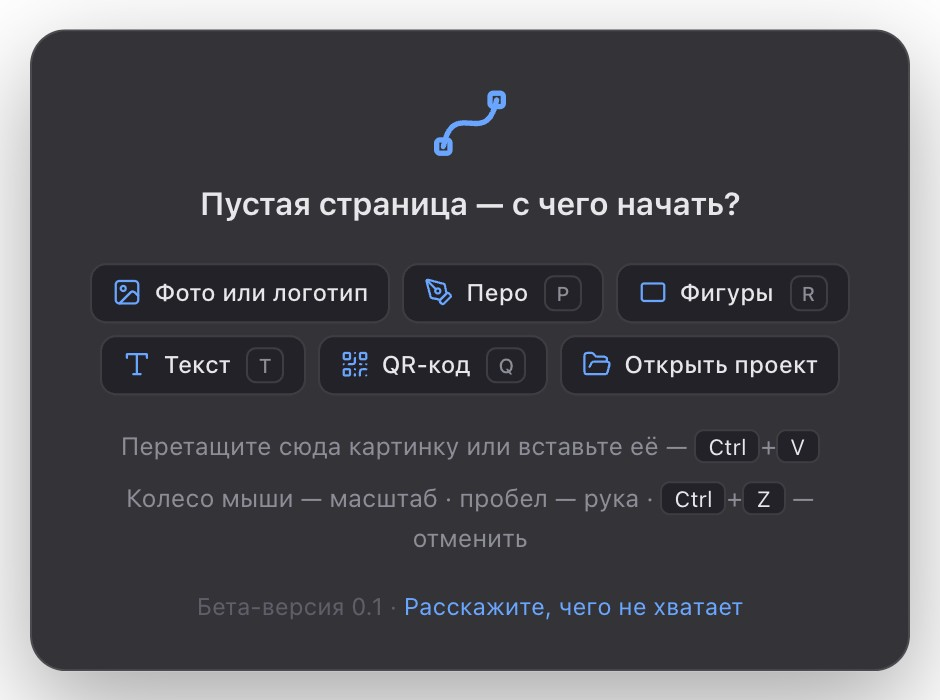
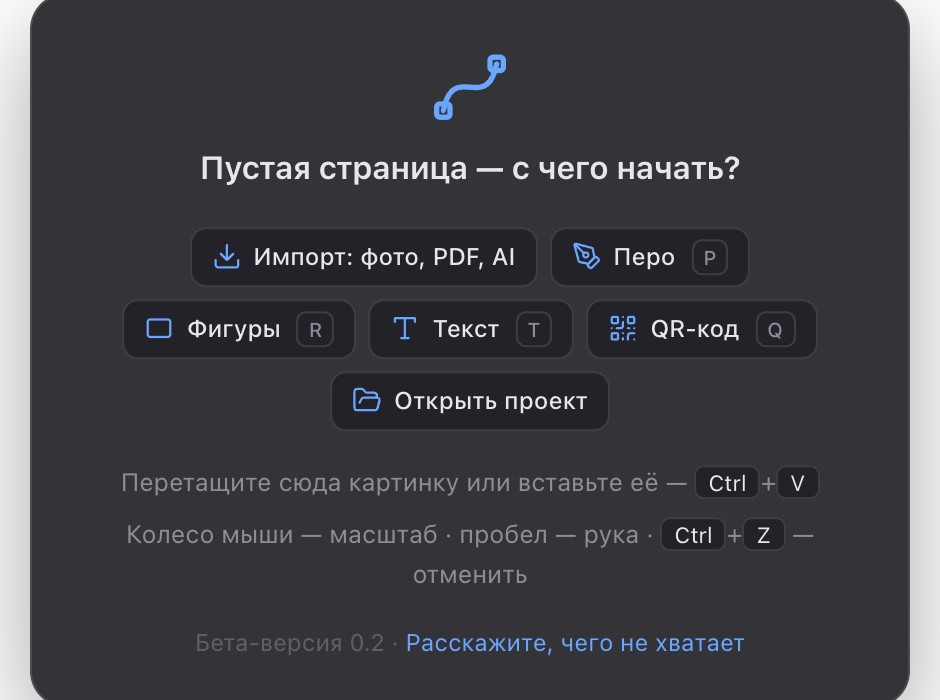
Сайт: Контур 0.2 — программа для Mac и Windows, импорт .ai и PDF
Кнопка «Скачать» выбирает установщик под систему посетителя (Mac Apple/Intel,
Windows), рядом — остальные варианты и браузерная версия. Новые разделы
«Настоящая программа» и «.ai и PDF — сразу кривыми», вопросы «Как открыть
в первый раз», «Какую версию выбрать», «А файлы CorelDRAW?», «Как обновиться».
Скриншоты пересняты с новыми значками «Импорт» и «Экспорт».

diff --git a/kontur/index.html b/kontur/index.html
@@ -3,14 +3,14 @@
 <head>
 <meta charset="utf-8">
 <meta name="viewport" content="width=device-width, initial-scale=1">
-<title>Контур — векторный редактор для печати, резки и QR-кодов прямо в браузере</title>
-<meta name="description" content="Бесплатный векторный редактор: перо и кривые Безье, фигуры, текст с переводом в кривые, сложить и вычесть, выравнивание, привязка, векторные QR-коды. Экспорт SVG, PDF, EPS, DXF и PNG. Один файл, работает в браузере — без установки и регистрации.">
+<title>Контур — векторный редактор для Mac и Windows: печать, резка, вывески и QR-коды</title>
+<meta name="description" content="Бесплатный векторный редактор: перо и кривые Безье, фигуры, текст с переводом в кривые, сложить и вычесть, выравнивание, привязка, векторные QR-коды. Открывает файлы Illustrator и PDF кривыми. Экспорт SVG, PDF, EPS, DXF и PNG. Программа для Mac и Windows, есть браузерная версия. Бесплатно, без регистрации.">
 <meta name="theme-color" content="#000000">
 <meta property="og:type" content="website">
 <meta property="og:title" content="Контур — векторный редактор для печати и резки">
-<meta property="og:description" content="Перо, фигуры, текст в кривые, векторные QR-коды. Экспорт SVG, PDF, EPS, DXF, PNG. Один файл, работает в браузере. Бесплатно.">
-<meta property="og:image" content="../assets/kontur/hero.jpg?v=1">
-<link rel="icon" href="../assets/kontur/icon.svg?v=1" type="image/svg+xml">
+<meta property="og:description" content="Перо, фигуры, текст в кривые, векторные QR-коды. Экспорт SVG, PDF, EPS, DXF, PNG. Программа для Mac и Windows. Бесплатно.">
+<meta property="og:image" content="../assets/kontur/hero.jpg?v=2">
+<link rel="icon" href="../assets/kontur/icon.svg?v=2" type="image/svg+xml">
 <link rel="preconnect" href="https://fonts.googleapis.com">
 <link rel="preconnect" href="https://fonts.gstatic.com" crossorigin>
 <link rel="stylesheet" href="https://fonts.googleapis.com/css2?family=Inter:wght@400;500;600;700;800&family=Unbounded:wght@700&family=Lobster&family=Caveat:wght@700&family=Russo+One&family=Great+Vibes&family=Playfair+Display:ital,wght@1,700&display=swap">
@@ -22,13 +22,13 @@
 <!-- ========== навигация ========== -->
 <nav class="nav" id="nav">
   <div class="nav-in">
-    <a class="brand" href="#top"><img class="klogo" src="../assets/kontur/icon.svg?v=1" alt=""><span class="bn">Контур</span><span class="beta">Бета</span></a>
+    <a class="brand" href="#top"><img class="klogo" src="../assets/kontur/icon.svg?v=2" alt=""><span class="bn">Контур</span><span class="beta">Бета</span></a>
     <div class="links">
-      <a href="#text">Текст</a><a href="#pen">Перо</a><a href="#bool">Фигуры</a><a href="#qr">QR-коды</a><a href="#export">Экспорт</a><a href="#together">Участвовать</a><a href="#faq">Вопросы</a>
+      <a href="#get">Программа</a><a href="#text">Текст</a><a href="#pen">Перо</a><a href="#qr">QR-коды</a><a href="#import">Импорт</a><a href="#export">Экспорт</a><a href="#faq">Вопросы</a>
     </div>
     <div class="nav-r">
       <div class="fam" aria-label="Программы"><a href="../">Фотомагазин</a><a class="on" href="./" aria-current="page">Контур</a></div>
-      <a class="btn btn-sm" href="https://github.com/fotomagazin/kontur/releases/latest/download/kontur.zip">Скачать</a>
+      <a class="btn btn-sm" data-dl="main" data-short href="https://github.com/fotomagazin/kontur/releases/latest/download/Kontur-mac-apple.dmg">Скачать</a>
     </div>
   </div>
 </nav>
@@ -36,22 +36,23 @@
 <!-- ========== первый экран ========== -->
 <header class="hero" id="top">
   <div class="wrap hero-text">
-    <img class="klogo hero-logo reveal" src="../assets/kontur/icon.svg?v=1" width="72" height="72" alt="Логотип Контура">
-    <a class="pill reveal" href="../" style="--d:.04s"><span class="dot"></span>От&nbsp;создателей Фотомагазина<span class="arr">›</span></a>
+    <img class="klogo hero-logo reveal" src="../assets/kontur/icon.svg?v=2" width="72" height="72" alt="Логотип Контура">
+    <a class="pill reveal" href="#get" style="--d:.04s"><span class="dot"></span>Новое в&nbsp;0.2: программы для&nbsp;Mac и&nbsp;Windows, импорт .ai и&nbsp;PDF<span class="arr">›</span></a>
     <h1 class="reveal" style="--d:.08s"><span class="grad">Контур.</span></h1>
-    <p class="lead reveal" style="--d:.16s">Векторный редактор для&nbsp;печати, резки, вывесок и&nbsp;QR-кодов.<br><span>Один файл. Работает в&nbsp;браузере. Бесплатно.</span></p>
+    <p class="lead reveal" style="--d:.16s">Векторный редактор для&nbsp;печати, резки, вывесок и&nbsp;QR-кодов.<br><span>Программа для&nbsp;Mac и&nbsp;Windows. Бесплатно.</span></p>
     <div class="cta reveal" style="--d:.24s">
-      <a class="btn btn-lg" href="https://github.com/fotomagazin/kontur/releases/latest/download/kontur.zip">
-        <svg viewBox="0 0 24 24"><path d="M21 15v4a2 2 0 0 1-2 2H5a2 2 0 0 1-2-2v-4M7 10l5 5 5-5M12 15V3"/></svg>Скачать бесплатно</a>
+      <a class="btn btn-lg" data-dl="main" href="https://github.com/fotomagazin/kontur/releases/latest/download/Kontur-mac-apple.dmg">
+        <svg viewBox="0 0 24 24"><path d="M21 15v4a2 2 0 0 1-2 2H5a2 2 0 0 1-2-2v-4M7 10l5 5 5-5M12 15V3"/></svg><span class="dl-l">Скачать для&nbsp;Mac</span></a>
     </div>
+    <p class="dl-alt reveal" style="--d:.27s" data-dl-alt>Другие варианты: <a href="https://github.com/fotomagazin/kontur/releases/latest/download/Kontur-mac-intel.dmg">Mac с&nbsp;Intel</a> · <a href="https://github.com/fotomagazin/kontur/releases/latest/download/Kontur-windows-setup.exe">Windows</a> · <a href="https://github.com/fotomagazin/kontur/releases/latest/download/kontur.zip">Браузерная версия</a></p>
     <p class="dl-count" hidden><svg viewBox="0 0 24 24"><path d="M21 15v4a2 2 0 0 1-2 2H5a2 2 0 0 1-2-2v-4M7 10l5 5 5-5M12 15V3"/></svg><b>0</b>&nbsp;<span>скачиваний</span></p>
-    <p class="fine reveal" style="--d:.3s">Бета-версия <span data-ver>0.1</span> · Mac и Windows · Без установки · Без регистрации</p>
+    <p class="fine reveal" style="--d:.3s">Бета-версия <span data-ver>0.2</span> · Mac и Windows · Работает без&nbsp;интернета · Без регистрации</p>
   </div>
   <div class="hero-stage">
     <div class="glow" aria-hidden="true"></div>
     <div class="window" id="heroWin">
       <div class="bar"><i></i><i></i><i></i><span>Кофейня.kontur — Контур</span></div>
-      <img src="../assets/kontur/hero.jpg?v=1" width="2880" height="1800" alt="Окно Контура: вывеска кофейни — чашка, пар, надпись «КОФЕЙНЯ», QR-код и направляющие">
+      <img src="../assets/kontur/hero.jpg?v=2" width="2880" height="1800" alt="Окно Контура: вывеска кофейни — чашка, пар, надпись «КОФЕЙНЯ», QR-код и направляющие">
     </div>
   </div>
 </header>
@@ -68,6 +69,36 @@
   <div class="stat reveal" style="--d:.24s"><b data-count="0" data-suffix=" ₽">0 ₽</b><span>стоит программа.<br>Навсегда.</span></div>
 </section>
 
+<!-- ========== программа для Mac и Windows (новое в 0.2) ========== -->
+<section class="feature center" id="get">
+  <div class="wrap">
+    <p class="eyebrow reveal">Новое в&nbsp;0.2 · Программа для&nbsp;Mac и&nbsp;Windows</p>
+    <h2 class="reveal" style="--d:.05s">Настоящая программа.<br>Своё окно, свои файлы.</h2>
+    <p class="body narrow reveal" style="--d:.1s">Контур ставится, как обычная программа: свой значок и&nbsp;меню, проекты .kontur открываются двойным щелчком, «Сохранить» записывает прямо в&nbsp;файл. Шестнадцать шрифтов и&nbsp;все модули уже внутри — поэтому Контур работает без&nbsp;интернета.</p>
+    <div class="platforms">
+      <div class="plat reveal" data-os="mac"><svg viewBox="0 0 24 24"><rect x="3" y="4" width="18" height="12" rx="2"/><path d="M2 20h20"/></svg>
+        <h3>Mac</h3><p>macOS, процессоры Apple (M1–M4) и&nbsp;Intel. Перетащите Контур в&nbsp;«Программы».</p>
+        <div class="plat-b"><a class="btn" href="https://github.com/fotomagazin/kontur/releases/latest/download/Kontur-mac-apple.dmg"><svg viewBox="0 0 24 24"><path d="M21 15v4a2 2 0 0 1-2 2H5a2 2 0 0 1-2-2v-4M7 10l5 5 5-5M12 15V3"/></svg>Mac — Apple M1–M4</a><a class="btn ghost" href="https://github.com/fotomagazin/kontur/releases/latest/download/Kontur-mac-intel.dmg">Mac с&nbsp;Intel</a></div>
+        <span class="plat-s">≈&nbsp;125&nbsp;МБ · файл .dmg</span></div>
+      <div class="plat reveal" style="--d:.08s" data-os="win"><svg viewBox="0 0 24 24"><rect x="2" y="3" width="20" height="14" rx="2"/><path d="M8 21h8M12 17v4"/></svg>
+        <h3>Windows</h3><p>Windows 10 и&nbsp;11 (64&nbsp;бит). Установка в&nbsp;один щелчок, ярлык на&nbsp;рабочем столе.</p>
+        <div class="plat-b"><a class="btn" href="https://github.com/fotomagazin/kontur/releases/latest/download/Kontur-windows-setup.exe"><svg viewBox="0 0 24 24"><path d="M21 15v4a2 2 0 0 1-2 2H5a2 2 0 0 1-2-2v-4M7 10l5 5 5-5M12 15V3"/></svg>Скачать для&nbsp;Windows</a></div>
+        <span class="plat-s">≈&nbsp;115&nbsp;МБ · файл .exe</span></div>
+      <div class="plat reveal" style="--d:.16s" data-os="web"><svg viewBox="0 0 24 24"><circle cx="12" cy="12" r="10"/><path d="M2 12h20M12 2a15.3 15.3 0 0 1 4 10 15.3 15.3 0 0 1-4 10 15.3 15.3 0 0 1-4-10 15.3 15.3 0 0 1 4-10z"/></svg>
+        <h3>Браузерная версия</h3><p>Любой компьютер, в&nbsp;том числе Linux. Тот же Контур в&nbsp;одном файле kontur.html — лучше в&nbsp;Chrome или&nbsp;Edge.</p>
+        <div class="plat-b"><a class="btn ghost" href="https://github.com/fotomagazin/kontur/releases/latest/download/kontur.zip"><svg viewBox="0 0 24 24"><path d="M21 15v4a2 2 0 0 1-2 2H5a2 2 0 0 1-2-2v-4M7 10l5 5 5-5M12 15V3"/></svg>Скачать архив</a></div>
+        <span class="plat-s">меньше 100&nbsp;КБ · файл .zip</span></div>
+    </div>
+    <ul class="checks two reveal">
+      <li>Проекты .kontur — двойным щелчком в&nbsp;Finder и&nbsp;Проводнике</li>
+      <li>«Сохранить» прямо в&nbsp;файл, ⌘S или&nbsp;Ctrl+S</li>
+      <li>Без интернета: шрифты, «Сложить / Вычесть» и&nbsp;импорт PDF внутри</li>
+      <li>Сама подскажет, когда выйдет новая версия</li>
+    </ul>
+    <p class="hint reveal">Программы пока без&nbsp;платной подписи Apple и&nbsp;Microsoft — в&nbsp;первый раз система переспросит. <a class="inl" href="#first">Как открыть в&nbsp;первый раз</a></p>
+  </div>
+</section>
+
 <!-- ========== текст ========== -->
 <section class="feature center" id="text">
   <div class="wrap">
@@ -76,7 +107,7 @@
     <p class="body narrow reveal" style="--d:.1s">Кликните по&nbsp;странице и&nbsp;печатайте. Шестнадцать шрифтов с&nbsp;кириллицей — от&nbsp;строгого Montserrat до&nbsp;рукописного Great Vibes, а&nbsp;можно загрузить свой. Готово — нажмите «В&nbsp;кривые», и&nbsp;буквы станут контурами для&nbsp;плоттера, лазера или&nbsp;типографии.</p>
     <div class="window wide-shot reveal" style="--d:.15s">
       <div class="bar"><i></i><i></i><i></i><span>Афиша.kontur — Контур</span></div>
-      <img src="../assets/kontur/text.jpg?v=1" width="2880" height="1800" alt="Афиша с надписями разными шрифтами; справа — раздел «Текст»: шрифт, размер, начертание, интервалы и кнопка «В кривые»" loading="lazy">
+      <img src="../assets/kontur/text.jpg?v=2" width="2880" height="1800" alt="Афиша с надписями разными шрифтами; справа — раздел «Текст»: шрифт, размер, начертание, интервалы и кнопка «В кривые»" loading="lazy">
     </div>
     <div class="fonts kt-fonts reveal"><span style="font-family:Unbounded">Unbounded</span><span style="font-family:'Russo One'">Russo One</span><span class="lg" style="font-family:Lobster">Lobster</span><span class="lg" style="font-family:'Great Vibes'">Great Vibes</span><span class="lg" style="font-family:Caveat">Caveat</span><span style="font-family:'Playfair Display';font-style:italic">Playfair Display</span><span>Montserrat</span><span>Roboto</span><span>PT Sans</span><span>Oswald</span><span>Rubik</span><span>Exo 2</span><span>Comfortaa</span><span>Open Sans</span><span>PT Serif</span><span>Marck Script</span><span class="on">+ свой шрифт</span></div>
     <p class="hint reveal">Размер — в&nbsp;пунктах, как в&nbsp;типографии. Межстрочный и&nbsp;межбуквенный интервал, выравнивание, жирный и&nbsp;курсив.</p>
@@ -98,7 +129,7 @@
       </ul>
     </div>
     <div class="shot-stack reveal" style="--d:.1s">
-      <div class="card zoom"><img src="../assets/kontur/nodes.jpg?v=1" width="2160" height="1556" alt="Сердце из кривых Безье: узлы и рычаги выбранного узла, внизу — волна пером" loading="lazy"></div>
+      <div class="card zoom"><img src="../assets/kontur/nodes.jpg?v=2" width="2160" height="1556" alt="Сердце из кривых Безье: узлы и рычаги выбранного узла, внизу — волна пером" loading="lazy"></div>
       <div class="tag t1"><svg viewBox="0 0 24 24"><path d="M12 19l7-7 3 3-7 7-3-3z"/><path d="m18 13-1.5-7.5L2 2l3.5 14.5L13 18l5-5z"/><path d="m2 2 7.586 7.586"/><circle cx="11" cy="11" r="2"/></svg>Перо — F5, узлы — F10</div>
       <div class="tag t2"><svg viewBox="0 0 24 24"><rect x="3" y="3" width="6" height="6" rx="1"/><rect x="15" y="15" width="6" height="6" rx="1"/><path d="M6 9c0 6 6 9 12 6"/></svg>Клавиши как в&nbsp;CorelDRAW</div>
     </div>
@@ -115,7 +146,7 @@
       <div class="chips reveal" style="--d:.15s"><span>Прямоугольник · F6</span><span>Эллипс · F7</span><span>Многоугольник</span><span class="on">Звезда</span><span>Пипетка</span></div>
     </div>
     <div class="shot-stack reveal" style="--d:.1s">
-      <div class="card zoom"><img src="../assets/kontur/shapes.jpg?v=1" width="2272" height="1728" alt="Прямоугольник, эллипс, шестиугольник и звезда; вверху — число лучей и глубина звезды" loading="lazy"></div>
+      <div class="card zoom"><img src="../assets/kontur/shapes.jpg?v=2" width="2272" height="1728" alt="Прямоугольник, эллипс, шестиугольник и звезда; вверху — число лучей и глубина звезды" loading="lazy"></div>
     </div>
   </div>
 </section>
@@ -143,7 +174,7 @@
     </div>
     <p class="hint reveal">Нажмите на&nbsp;операцию, чтобы посмотреть</p>
     <div class="duo">
-      <figure class="card reveal"><img src="../assets/kontur/bool.jpg?v=1" width="606" height="642" alt="Раздел «Кривая»: заливка, обводка и кнопки «Сложить», «Вычесть», «Пересечь», «Исключить», «Объединить», «Разъединить»" loading="lazy">
+      <figure class="card reveal"><img src="../assets/kontur/bool.jpg?v=2" width="606" height="642" alt="Раздел «Кривая»: заливка, обводка и кнопки «Сложить», «Вычесть», «Пересечь», «Исключить», «Объединить», «Разъединить»" loading="lazy">
         <figcaption><b>Одна кнопка.</b> Выберите две фигуры или&nbsp;больше — и&nbsp;нажмите нужную операцию в&nbsp;разделе «Кривая».</figcaption></figure>
       <figure class="card reveal st-list" style="--d:.1s">
         <ul class="checks">
@@ -186,7 +217,7 @@
     <p class="body narrow reveal" style="--d:.1s">Всё меряется в&nbsp;миллиметрах: страница A5, A4, A3 или&nbsp;свой размер. Тяните направляющие от&nbsp;линеек, включите сетку — а&nbsp;привязка сама прилепит фигуру к&nbsp;направляющей, краю или&nbsp;центру страницы, к&nbsp;соседнему объекту и&nbsp;его узлам. Розовые линии показывают, к&nbsp;чему прилипло.</p>
     <div class="window wide-shot reveal" style="--d:.15s">
       <div class="bar"><i></i><i></i><i></i><span>Кофейня.kontur — Контур</span></div>
-      <img src="../assets/kontur/snap.jpg?v=1" width="2880" height="1800" alt="Чашку перетаскивают мышью: розовые линии привязки к направляющей и центру страницы, сверху и слева — линейки в миллиметрах" loading="lazy">
+      <img src="../assets/kontur/snap.jpg?v=2" width="2880" height="1800" alt="Чашку перетаскивают мышью: розовые линии привязки к направляющей и центру страницы, сверху и слева — линейки в миллиметрах" loading="lazy">
     </div>
     <div class="chips st-chips reveal"><span>Линейки в&nbsp;мм</span><span>Направляющие — тянуть от&nbsp;линейки</span><span>Сетка с&nbsp;любым шагом</span><span class="on">Привязка к&nbsp;узлам и&nbsp;краям</span><span>Стрелки — сдвиг на&nbsp;1&nbsp;мм</span></div>
   </div>
@@ -202,7 +233,7 @@
       <div class="chips reveal" style="--d:.15s"><span>Сайт</span><span class="on">Wi-Fi</span><span>Визитка</span><span>Telegram</span><span>WhatsApp</span><span>Телефон</span><span>SMS</span><span>E-mail</span><span>Текст</span><span>Геолокация</span><span>Событие в&nbsp;календарь</span></div>
     </div>
     <div class="shot-stack reveal" style="--d:.1s">
-      <div class="card zoom"><img src="../assets/kontur/qr.jpg?v=1" width="1376" height="1000" alt="Окно «QR-код»: подключение к Wi-Fi, имя сети и пароль, размер в миллиметрах, коррекция ошибок, цвета и предпросмотр" loading="lazy"></div>
+      <div class="card zoom"><img src="../assets/kontur/qr.jpg?v=2" width="1376" height="1000" alt="Окно «QR-код»: подключение к Wi-Fi, имя сети и пароль, размер в миллиметрах, коррекция ошибок, цвета и предпросмотр" loading="lazy"></div>
       <div class="tag t1"><svg viewBox="0 0 24 24"><rect x="3" y="3" width="7" height="7" rx="1"/><rect x="14" y="3" width="7" height="7" rx="1"/><rect x="3" y="14" width="7" height="7" rx="1"/><path d="M14 14h3v3h-3zM20 14v.01M14 20h.01M17 17h3v3h-3z"/></svg>Вектор, а&nbsp;не&nbsp;картинка</div>
       <div class="tag t2"><svg viewBox="0 0 24 24"><path d="M12 20h.01M2 8.82a15 15 0 0 1 20 0M5 12.86a10 10 0 0 1 14 0M8.5 16.43a5 5 0 0 1 7 0"/></svg>Гости подключатся к&nbsp;Wi-Fi</div>
     </div>
@@ -223,8 +254,30 @@
       </ul>
     </div>
     <div class="shot-stack reveal" style="--d:.1s">
-      <div class="card zoom"><img src="../assets/kontur/trace.jpg?v=1" width="2160" height="1556" alt="Фото гор закреплено и сделано полупрозрачным, поверх — розовый контур вершины с узлами" loading="lazy"></div>
+      <div class="card zoom"><img src="../assets/kontur/trace.jpg?v=2" width="2160" height="1556" alt="Фото гор закреплено и сделано полупрозрачным, поверх — розовый контур вершины с узлами" loading="lazy"></div>
       <div class="tag t2"><svg viewBox="0 0 24 24"><rect x="3" y="11" width="18" height="11" rx="2"/><path d="M7 11V7a5 5 0 0 1 10 0v4"/></svg>Фото закреплено — не&nbsp;сдвинется</div>
+    </div>
+  </div>
+</section>
+
+<!-- ========== импорт .ai и PDF (новое в 0.2) ========== -->
+<section class="feature" id="import">
+  <div class="wrap grid2 rev">
+    <div class="copy">
+      <p class="eyebrow reveal">Новое в&nbsp;0.2 · Импорт</p>
+      <h2 class="reveal" style="--d:.05s">.ai и&nbsp;PDF —<br>сразу кривыми.</h2>
+      <p class="body reveal" style="--d:.1s">Откройте .ai или&nbsp;PDF — и&nbsp;каждый контур станет обычной кривой Контура: двигайте узлы, перекрашивайте, готовьте к&nbsp;резке. Текст приходит буквами-кривыми, так что нужный шрифт на&nbsp;компьютере не&nbsp;нужен.</p>
+      <ul class="checks reveal" style="--d:.15s">
+        <li>Контуры, цвета, обводки и&nbsp;прозрачность</li>
+        <li>Текст — кривыми букв, как в&nbsp;исходном файле</li>
+        <li>Фото внутри файла пропускаются, градиенты — средним цветом</li>
+      </ul>
+      <p class="note reveal" style="--d:.2s"><b>А&nbsp;CorelDRAW?</b> Формат .cdr закрытый, напрямую его не&nbsp;открыть. В&nbsp;CorelDRAW: «Файл → Экспорт… → PDF» — и&nbsp;откройте PDF в&nbsp;Контуре. Без CorelDRAW поможет бесплатный Inkscape.</p>
+    </div>
+    <div class="shot-stack reveal" style="--d:.1s">
+      <div class="card zoom"><img src="../assets/kontur/import.jpg?v=2" width="2880" height="1800" alt="Вывеска, открытая из PDF: 11 объектов, все — кривые Контура" loading="lazy"></div>
+      <div class="tag t1"><svg viewBox="0 0 24 24"><path d="M15 2H6a2 2 0 0 0-2 2v16a2 2 0 0 0 2 2h12a2 2 0 0 0 2-2V7Z"/><path d="M14 2v4a2 2 0 0 0 2 2h4"/></svg>.ai и&nbsp;.pdf</div>
+      <div class="tag t2"><svg viewBox="0 0 24 24"><rect x="3" y="3" width="6" height="6" rx="1"/><rect x="15" y="15" width="6" height="6" rx="1"/><path d="M6 9c0 6 6 9 12 6"/></svg>11 объектов — все кривые</div>
     </div>
   </div>
 </section>
@@ -245,7 +298,7 @@
       </dl>
     </div>
     <div class="shot-stack reveal" style="--d:.1s">
-      <div class="card zoom"><img src="../assets/kontur/export.jpg?v=1" width="1060" height="800" alt="Окно «Экспорт»: форматы SVG, PDF, EPS, DXF, PNG, размер 200 × 130 мм и вес файла" loading="lazy"></div>
+      <div class="card zoom"><img src="../assets/kontur/export.jpg?v=2" width="1060" height="800" alt="Окно «Экспорт»: форматы SVG, PDF, EPS, DXF, PNG, размер 200 × 130 мм и вес файла" loading="lazy"></div>
       <div class="tag t1"><svg viewBox="0 0 24 24"><path d="M21 15v4a2 2 0 0 1-2 2H5a2 2 0 0 1-2-2v-4M7 10l5 5 5-5M12 15V3"/></svg>Вес файла — заранее</div>
     </div>
   </div>
@@ -257,8 +310,8 @@
     <h2 class="reveal center-t">И это ещё не&nbsp;всё.</h2>
     <div class="bento">
       <div class="b-card wide with-shot reveal"><div><svg viewBox="0 0 24 24"><path d="M15 2H6a2 2 0 0 0-2 2v16a2 2 0 0 0 2 2h12a2 2 0 0 0 2-2V7Z"/><path d="M14 2v4a2 2 0 0 0 2 2h4"/><circle cx="10" cy="12" r="2"/><path d="m20 17-1.3-1.3a2 2 0 0 0-2.8 0L10 22"/></svg>
-        <h3>Подскажет, с&nbsp;чего начать.</h3><p>На&nbsp;пустой странице — кнопки «Фото или&nbsp;логотип», «Перо», «Фигуры», «Текст», «QR-код» и&nbsp;главные клавиши. Картинку можно просто перетащить в&nbsp;окно или&nbsp;вставить из&nbsp;буфера.</p></div>
-        <img class="b-shot" src="../assets/kontur/empty.jpg?v=1" width="940" height="700" alt="Подсказка «Пустая страница — с чего начать?»" loading="lazy"></div>
+        <h3>Подскажет, с&nbsp;чего начать.</h3><p>На&nbsp;пустой странице — кнопки «Импорт», «Перо», «Фигуры», «Текст», «QR-код» и&nbsp;главные клавиши. Картинку можно просто перетащить в&nbsp;окно или&nbsp;вставить из&nbsp;буфера.</p></div>
+        <img class="b-shot" src="../assets/kontur/empty.jpg?v=2" width="940" height="700" alt="Подсказка «Пустая страница — с чего начать?»" loading="lazy"></div>
       <div class="b-card reveal" style="--d:.06s"><svg viewBox="0 0 24 24"><path d="M3 12a9 9 0 0 1 9-9 9.75 9.75 0 0 1 6.74 2.74L21 8"/><path d="M21 3v5h-5"/><path d="M21 12a9 9 0 0 1-9 9 9.75 9.75 0 0 1-6.74-2.74L3 16"/><path d="M8 16H3v5"/></svg>
         <h3>Автосохранение.</h3><p>Закрыли вкладку? При&nbsp;следующем запуске Контур предложит вернуть работу.</p></div>
       <div class="b-card reveal"><svg viewBox="0 0 24 24"><path d="M3 12a9 9 0 1 0 9-9 9.75 9.75 0 0 0-6.74 2.74L3 8"/><path d="M3 3v5h5M12 7v5l4 2"/></svg>
@@ -280,7 +333,7 @@
 <section class="together" id="together">
   <div class="wrap">
     <div class="center">
-      <p class="eyebrow reveal">Бета-версия <span data-ver>0.1</span></p>
+      <p class="eyebrow reveal">Бета-версия <span data-ver>0.2</span></p>
       <h2 class="reveal" style="--d:.05s">Контур создаётся<br>вместе с&nbsp;вами.</h2>
       <p class="body narrow reveal" style="--d:.1s">Это ранняя версия: основа уже работает, но&nbsp;многого ещё нет, а&nbsp;что-то может сломаться. Расскажите, чего вам не&nbsp;хватает, — автор читает каждое сообщение. Бот и&nbsp;канал у&nbsp;Контура и&nbsp;Фотомагазина общие.</p>
     </div>
@@ -295,7 +348,8 @@
       <p class="reveal" style="--d:.05s">Идеи, которые уже на&nbsp;очереди. Голосуйте в&nbsp;опросах нашего канала — самые нужные появятся первыми.</p>
       <ul class="road reveal" style="--d:.1s">
         <li class="done">Текст и&nbsp;«В&nbsp;кривые» <em>готово в&nbsp;0.1</em></li><li class="done">Сложить и&nbsp;вычесть <em>готово в&nbsp;0.1</em></li><li class="done">Привязка и&nbsp;направляющие <em>готово в&nbsp;0.1</em></li>
-        <li>Группы</li><li>Открывать SVG и&nbsp;PDF кривыми</li><li>Контур по&nbsp;фото одной кнопкой</li><li>Градиенты</li><li>Пунктир и&nbsp;отступ контура для&nbsp;резки</li>
+        <li class="done">Программа для&nbsp;Mac и&nbsp;Windows <em>готово в&nbsp;0.2</em></li><li class="done">Открывать .ai и&nbsp;PDF кривыми <em>готово в&nbsp;0.2</em></li>
+        <li>Группы</li><li>Открывать SVG кривыми</li><li>Контур по&nbsp;фото одной кнопкой</li><li>Градиенты</li><li>Пунктир и&nbsp;отступ контура для&nbsp;резки</li>
         <li>Метки реза и&nbsp;CMYK</li><li>Несколько страниц</li><li>Английская версия</li><li class="you">+ ваша идея</li>
       </ul>
     </div>
@@ -307,25 +361,26 @@
   <div class="wrap center">
     <div class="lock reveal"><svg viewBox="0 0 24 24"><rect x="3" y="11" width="18" height="11" rx="2"/><path d="M7 11V7a5 5 0 0 1 10 0v4"/></svg></div>
     <h2 class="reveal" style="--d:.05s">Ваши макеты<br>остаются у&nbsp;вас.</h2>
-    <p class="body narrow reveal" style="--d:.1s">Контур работает прямо на&nbsp;вашем компьютере, в&nbsp;браузере. Никаких серверов, облака и&nbsp;аккаунтов — логотипы, фото и&nbsp;макеты никуда не&nbsp;загружаются.</p>
+    <p class="body narrow reveal" style="--d:.1s">Контур работает прямо на&nbsp;вашем компьютере. Никаких серверов, облака и&nbsp;аккаунтов — логотипы, фото и&nbsp;макеты никуда не&nbsp;загружаются.</p>
   </div>
 </section>
 
 <!-- ========== скачать ========== -->
 <section class="download" id="download">
   <div class="wrap center">
-    <img class="klogo big reveal" src="../assets/kontur/icon.svg?v=1" width="96" height="96" alt="">
+    <img class="klogo big reveal" src="../assets/kontur/icon.svg?v=2" width="96" height="96" alt="">
     <h2 class="reveal" style="--d:.05s">Начните прямо сейчас.</h2>
-    <p class="body narrow reveal" style="--d:.1s">Бесплатно. Без регистрации. Архив меньше 100&nbsp;КБ — программа и&nbsp;короткая инструкция.</p>
-    <p class="fine reveal" style="--d:.12s">Бета-версия <span data-ver>0.1</span>. Нашли ошибку или&nbsp;чего-то не&nbsp;хватает? <a class="inl" data-form="idea" href="#together">Напишите нам</a>.</p>
+    <p class="body narrow reveal" style="--d:.1s">Бесплатно. Без регистрации. Программа для&nbsp;Mac и&nbsp;Windows — или&nbsp;браузерная версия в&nbsp;одном файле.</p>
+    <p class="fine reveal" style="--d:.12s">Бета-версия <span data-ver>0.2</span>. Нашли ошибку или&nbsp;чего-то не&nbsp;хватает? <a class="inl" data-form="idea" href="#together">Напишите нам</a>.</p>
     <div class="cta reveal" style="--d:.15s">
-      <a class="btn btn-lg" href="https://github.com/fotomagazin/kontur/releases/latest/download/kontur.zip">
-        <svg viewBox="0 0 24 24"><path d="M21 15v4a2 2 0 0 1-2 2H5a2 2 0 0 1-2-2v-4M7 10l5 5 5-5M12 15V3"/></svg>Скачать Контур</a>
+      <a class="btn btn-lg" data-dl="main" href="https://github.com/fotomagazin/kontur/releases/latest/download/Kontur-mac-apple.dmg">
+        <svg viewBox="0 0 24 24"><path d="M21 15v4a2 2 0 0 1-2 2H5a2 2 0 0 1-2-2v-4M7 10l5 5 5-5M12 15V3"/></svg><span class="dl-l">Скачать для&nbsp;Mac</span></a>
     </div>
+    <p class="dl-alt reveal" data-dl-alt>Другие варианты: <a href="https://github.com/fotomagazin/kontur/releases/latest/download/Kontur-mac-intel.dmg">Mac с&nbsp;Intel</a> · <a href="https://github.com/fotomagazin/kontur/releases/latest/download/Kontur-windows-setup.exe">Windows</a> · <a href="https://github.com/fotomagazin/kontur/releases/latest/download/kontur.zip">Браузерная версия</a></p>
     <p class="dl-count" hidden><svg viewBox="0 0 24 24"><path d="M21 15v4a2 2 0 0 1-2 2H5a2 2 0 0 1-2-2v-4M7 10l5 5 5-5M12 15V3"/></svg><b>0</b>&nbsp;<span>скачиваний</span></p>
     <ol class="steps">
-      <li class="reveal"><b>1</b><h3>Скачайте</h3><p>Архив с&nbsp;программой и&nbsp;инструкцией «Как пользоваться».</p></li>
-      <li class="reveal" style="--d:.08s"><b>2</b><h3>Откройте</h3><p>Распакуйте архив и&nbsp;откройте kontur.html — программа запустится в&nbsp;браузере.</p></li>
+      <li class="reveal"><b>1</b><h3>Скачайте</h3><p>Установщик для&nbsp;вашего компьютера — Mac или&nbsp;Windows.</p></li>
+      <li class="reveal" style="--d:.08s"><b>2</b><h3>Установите</h3><p>Mac: перетащите Контур в&nbsp;«Программы». Windows: установка в&nbsp;один щелчок. <a class="inl" href="#first">Первый запуск</a> — один раз подтвердить.</p></li>
       <li class="reveal" style="--d:.16s"><b>3</b><h3>Рисуйте</h3><p>Перетащите логотип, возьмите перо или&nbsp;вставьте QR-код. Всё остальное уже внутри.</p></li>
     </ol>
   </div>
@@ -336,13 +391,16 @@
   <div class="wrap narrow-w">
     <h2 class="reveal center-t">Вопросы и&nbsp;ответы.</h2>
     <details class="reveal"><summary>Для чего подходит Контур?</summary><p>Для&nbsp;всего, где нужны чистые контуры, а&nbsp;не&nbsp;пиксели: вывески и&nbsp;таблички, наклейки и&nbsp;трафареты, файлы для&nbsp;режущего плоттера, лазера и&nbsp;фрезера, логотипы, визитки и&nbsp;листовки для&nbsp;типографии, QR-коды для&nbsp;меню и&nbsp;упаковки.</p></details>
-    <details class="reveal"><summary>Чем Контур отличается от&nbsp;Фотомагазина?</summary><p>Фотомагазин работает с&nbsp;фотографиями — пикселями и&nbsp;слоями. Контур — с&nbsp;векторами: линиями и&nbsp;кривыми, которые можно увеличить до&nbsp;любого размера без&nbsp;потери качества. Это две отдельные программы, у&nbsp;каждой свой файл, но&nbsp;дизайн, бот и&nbsp;канал у&nbsp;них общие.</p></details>
+    <details class="reveal"><summary>Чем Контур отличается от&nbsp;Фотомагазина?</summary><p>Фотомагазин работает с&nbsp;фотографиями — пикселями и&nbsp;слоями. Контур — с&nbsp;векторами: линиями и&nbsp;кривыми, которые можно увеличить до&nbsp;любого размера без&nbsp;потери качества. Это две отдельные программы со&nbsp;своими версиями, но&nbsp;дизайн, бот и&nbsp;канал у&nbsp;них общие.</p></details>
     <details class="reveal"><summary>Почему «бета»?</summary><p>Контур только начинает свой путь. Всё, что описано на&nbsp;этой странице, уже работает, но&nbsp;программа ещё развивается: будут появляться новые инструменты, а&nbsp;иногда — встречаться ошибки. Ваши отзывы помогают решить, что делать в&nbsp;первую очередь.</p></details>
-    <details class="reveal"><summary>Какие файлы он сохраняет?</summary><p>Проект — в&nbsp;файл .kontur со&nbsp;всем содержимым. Для&nbsp;работы — экспорт в&nbsp;SVG, PDF, EPS, DXF и&nbsp;PNG. Фото попадают в&nbsp;SVG, PDF и&nbsp;PNG; в&nbsp;EPS и&nbsp;DXF уходят только векторы — об&nbsp;этом окно «Экспорт» предупредит.</p></details>
+    <details class="reveal" id="first"><summary>Как открыть в&nbsp;первый раз?</summary><p>Программы пока без&nbsp;платной подписи Apple и&nbsp;Microsoft, поэтому при&nbsp;первом запуске система переспросит — один раз.<br><b>Mac:</b> откройте Контур двойным щелчком → появится «Не удалось проверить…» → нажмите «Готово» → откройте «Системные настройки» → «Конфиденциальность и&nbsp;безопасность» → внизу «Контур заблокирован…» → «Открыть всё равно» и&nbsp;введите пароль Mac.<br><b>Windows:</b> запустите установщик → в&nbsp;синем окне «Windows защитил ваш компьютер» нажмите «Подробнее» → «Выполнить в&nbsp;любом случае».</p></details>
+    <details class="reveal"><summary>Какие файлы он открывает и&nbsp;сохраняет?</summary><p>Открывает свои проекты .kontur, файлы Illustrator (.ai) и&nbsp;PDF — кривыми, а&nbsp;ещё картинки JPG, PNG, WebP, SVG, HEIC и&nbsp;TIFF — их удобно обводить. Сохраняет проект в&nbsp;.kontur, а&nbsp;для&nbsp;работы — экспорт в&nbsp;SVG, PDF, EPS, DXF и&nbsp;PNG. Фото попадают в&nbsp;SVG, PDF и&nbsp;PNG; в&nbsp;EPS и&nbsp;DXF уходят только векторы — об&nbsp;этом окно «Экспорт» предупредит.</p></details>
+    <details class="reveal"><summary>А&nbsp;файлы CorelDRAW (.cdr)?</summary><p>Напрямую — нет: это закрытый формат Corel. В&nbsp;CorelDRAW выберите «Файл → Экспорт…» и&nbsp;сохраните в&nbsp;PDF (текст лучше заранее перевести в&nbsp;кривые — Ctrl+Q), затем откройте PDF в&nbsp;Контуре. Если CorelDRAW нет, файл .cdr откроет бесплатный Inkscape — сохраните из&nbsp;него PDF.</p></details>
     <details class="reveal"><summary>Это правда бесплатно?</summary><p>Да. Без пробного периода, подписок и&nbsp;рекламы.</p></details>
-    <details class="reveal"><summary>Нужно что-то устанавливать?</summary><p>Нет. Скачайте архив, распакуйте его двойным кликом и&nbsp;откройте kontur.html — программа запустится в&nbsp;браузере. Вся программа — это один этот файл, а&nbsp;рядом лежит короткая инструкция.</p></details>
-    <details class="reveal"><summary>Работает без интернета?</summary><p>Почти всё — да. Интернет нужен, чтобы при&nbsp;первом использовании скачать шрифты для&nbsp;текста, модуль для&nbsp;«Сложить / Вычесть» и&nbsp;открыть TIFF или&nbsp;HEIC.</p></details>
-    <details class="reveal"><summary>В каком браузере лучше?</summary><p>Лучше всего — в&nbsp;Google Chrome или&nbsp;Microsoft Edge на&nbsp;Mac и&nbsp;Windows: там работают настоящие «Сохранить» и&nbsp;«Сохранить как».</p></details>
+    <details class="reveal"><summary>Какую версию выбрать?</summary><p>Для&nbsp;Mac и&nbsp;Windows — программу: своё окно, работа без&nbsp;интернета, «Сохранить» прямо в&nbsp;файл. Браузерная версия — тот же Контур в&nbsp;одном файле kontur.html: ничего не&nbsp;устанавливается, подойдёт для&nbsp;любого компьютера, в&nbsp;том числе с&nbsp;Linux. Распакуйте архив и&nbsp;откройте kontur.html двойным щелчком.</p></details>
+    <details class="reveal"><summary>Работает без интернета?</summary><p>Программа для&nbsp;Mac и&nbsp;Windows — полностью: шрифты и&nbsp;модули уже внутри. Браузерной версии интернет нужен один раз — чтобы скачать шрифты, модуль для&nbsp;«Сложить / Вычесть», импорт PDF и&nbsp;открыть TIFF или&nbsp;HEIC.</p></details>
+    <details class="reveal"><summary>Как обновиться?</summary><p>Кнопка «Версия» в&nbsp;верхней панели сама подскажет, что вышла новая версия, и&nbsp;скачает установщик для&nbsp;вашей системы. Запустите его — Контур обновится, а&nbsp;проекты и&nbsp;автосохранение останутся.</p></details>
+    <details class="reveal"><summary>В каком браузере лучше браузерная версия?</summary><p>В&nbsp;Google Chrome или&nbsp;Microsoft Edge: там работают настоящие «Сохранить» и&nbsp;«Сохранить как».</p></details>
     <details class="reveal"><summary>Как предложить идею или&nbsp;сообщить об&nbsp;ошибке?</summary><p>Через <a class="inl" data-form="idea" href="#together">короткую форму</a> или нашего <a class="inl" data-tg="bot" href="#together">Telegram-бота</a> — сообщение придёт напрямую автору. Или прямо из&nbsp;программы: кнопка «Обратная связь» в&nbsp;верхней панели. Новости — в&nbsp;<a class="inl" data-tg="channel" href="#together">Telegram-канале</a>.</p></details>
   </div>
 </section>
@@ -366,7 +424,7 @@
 
 <footer class="foot">
   <div class="wrap foot-in">
-    <a class="brand" href="#top"><img class="klogo" src="../assets/kontur/icon.svg?v=1" alt="">Контур <span>· Contour</span></a>
+    <a class="brand" href="#top"><img class="klogo" src="../assets/kontur/icon.svg?v=2" alt="">Контур <span>· Contour</span></a>
     <p><a class="inl" href="../">Фотомагазин</a> · <a class="inl" data-tg="channel" href="#together">Канал в&nbsp;Telegram</a> · <a class="inl" data-tg="bot" href="#together">Написать автору</a> · © <span id="year">2026</span> Контур. Сделано для&nbsp;тех, кто печатает, режет и&nbsp;рисует.</p>
   </div>
 </footer>

diff --git a/kontur/kontur.js b/kontur/kontur.js
@@ -16,3 +16,39 @@ function showAl(i) { for (let k = 0; k < 4; k++) alDemo.classList.toggle('st' + 
 showAl(0);
 alBtns.forEach((b, i) => b.addEventListener('click', () => { alAuto = false; showAl(i); }));
 if (!reduce) whileVisible(alDemo, async alive => { for (let i = 1; alive() && alAuto; i++) { await wait(2200); if (alive() && alAuto) showAl(i % 4); } });
+
+// ---------- скачивание: установщик под систему посетителя ----------
+// Mac: процессор узнаём по видеокарте (Chrome называет «Apple M1…» или «Intel…»; Safari всегда говорит «Apple GPU» — тогда Apple,
+// а рядом всегда есть ссылка «Mac с Intel»). Телефоны, планшеты, Linux — кнопка ведёт к выбору версии.
+const DL = 'https://github.com/fotomagazin/kontur/releases/latest/download/';
+const DLS = {
+  apple: { f: 'Kontur-mac-apple.dmg', t: 'Скачать для Mac', a: 'Mac — Apple M1–M4' },
+  intel: { f: 'Kontur-mac-intel.dmg', t: 'Скачать для Mac с Intel', a: 'Mac с Intel' },
+  win: { f: 'Kontur-windows-setup.exe', t: 'Скачать для Windows', a: 'Windows' },
+  web: { f: 'kontur.zip', t: 'Скачать браузерную версию', a: 'Браузерная версия' },
+};
+function macCpu() {
+  try { const gl = document.createElement('canvas').getContext('webgl'), ext = gl && gl.getExtension('WEBGL_debug_renderer_info');
+    const r = ext ? String(gl.getParameter(ext.UNMASKED_RENDERER_WEBGL)) : '';
+    if (/Intel|AMD|Radeon|NVIDIA|GeForce/i.test(r) && !/Apple/i.test(r)) return 'intel'; } catch (e) {}
+  return 'apple';
+}
+function visitorOS() {
+  const p = (navigator.userAgentData && navigator.userAgentData.platform) || navigator.platform || '', ua = navigator.userAgent;
+  if (/Win/i.test(p) || /Windows NT/.test(ua)) return 'win';
+  if ((/Mac/i.test(p) || /Macintosh/.test(ua)) && !(navigator.maxTouchPoints > 1)) return macCpu();   // iPad тоже называет себя «Mac»
+  return null;
+}
+const OS = visitorOS();
+$$('[data-dl="main"]').forEach(a => {
+  const d = OS && DLS[OS], l = $('.dl-l', a);
+  a.href = d ? DL + d.f : '#get';
+  if (l) l.textContent = d ? d.t : 'Скачать бесплатно';
+});
+$$('[data-dl-alt]').forEach(p => {
+  const keys = ['apple', 'intel', 'win', 'web'].filter(k => k !== OS);
+  p.innerHTML = (OS ? 'Другие варианты: ' : 'Выберите: ') + keys.map(k => `<a href="${DL + DLS[k].f}">${DLS[k].a}</a>`).join(' · ');
+});
+$$('.plat').forEach(c => c.classList.toggle('on', !!OS && (c.dataset.os === (OS === 'win' ? 'win' : 'mac'))));
+if (OS === 'intel') { const m = $('.plat[data-os="mac"] .plat-b');   // на Intel — своя кнопка первой и яркой
+  if (m) { m.append(...[...m.children].reverse()); [...m.children].forEach(b => b.classList.toggle('ghost')); } }

diff --git a/index.html b/index.html
@@ -416,12 +416,12 @@
       <h2 class="reveal" style="--d:.05s">Ещё от&nbsp;создателей<br>Фотомагазина.</h2></div>
     <a class="fam-card reveal" href="kontur/" style="--d:.1s">
       <div class="fc-copy">
-        <div class="fc-head"><img class="klogo" src="assets/kontur/icon.svg?v=1" width="56" height="56" alt=""><h3>Контур</h3><span class="beta kt-beta">Бета</span></div>
-        <p>Векторный редактор для&nbsp;печати, резки, вывесок и&nbsp;QR-кодов: перо и&nbsp;кривые Безье, фигуры, текст в&nbsp;кривые, точные миллиметры. Тоже один файл, тоже бесплатно.</p>
-        <div class="fmt"><span>SVG</span><span>PDF</span><span>EPS</span><span>DXF</span><span>PNG</span><span>QR</span></div>
+        <div class="fc-head"><img class="klogo" src="assets/kontur/icon.svg?v=2" width="56" height="56" alt=""><h3>Контур</h3><span class="beta kt-beta">Бета</span></div>
+        <p>Векторный редактор для&nbsp;печати, резки, вывесок и&nbsp;QR-кодов — программа для&nbsp;Mac и&nbsp;Windows: перо и&nbsp;кривые Безье, фигуры, текст в&nbsp;кривые, файлы Illustrator и&nbsp;PDF. Тоже бесплатно.</p>
+        <div class="fmt"><span>Mac</span><span>Windows</span><span>.ai</span><span>PDF</span><span>SVG</span><span>DXF</span><span>QR</span></div>
         <span class="go">Подробнее о&nbsp;Контуре <span>›</span></span>
       </div>
-      <div class="fc-shot"><img src="assets/kontur/hero.jpg?v=1" width="2880" height="1800" alt="Окно Контура: вывеска кофейни с надписью, QR-кодом и направляющими" loading="lazy"></div>
+      <div class="fc-shot"><img src="assets/kontur/hero.jpg?v=2" width="2880" height="1800" alt="Окно Контура: вывеска кофейни с надписью, QR-кодом и направляющими" loading="lazy"></div>
     </a>
   </div>
 </section>

diff --git a/kontur/kontur.css b/kontur/kontur.css
@@ -62,3 +62,25 @@ body.kt { --grad: linear-gradient(90deg, #19d3a2 0%, #3d8bfd 50%, #a35bff 100%);
   .bool-demo .sel-mode span, .al-demo .sel-mode span { padding: 5px 8px; font-size: 12px; }
   .formats dd { font-size: 16px; }
 }
+
+/* скачивание: другие варианты под кнопкой */
+.dl-alt { color: var(--dim); font-size: 15px; margin: 16px 0 0; }
+.dl-alt a { color: var(--blue); }
+.dl-alt a:hover { text-decoration: underline; text-underline-offset: 3px; }
+
+/* программа для Mac и Windows: карточки систем */
+.platforms { display: grid; grid-template-columns: repeat(3, 1fr); gap: 20px; max-width: 1100px; margin: 64px auto 0; text-align: left; }
+.plat { display: flex; flex-direction: column; background: var(--card); border: 1px solid var(--line); border-radius: 28px; padding: 32px; transition: border-color .3s, background .3s; }
+.plat.on { border-color: rgba(61,139,253,.6); background: #12151c; box-shadow: 0 30px 80px rgba(61,139,253,.12); }
+.plat > svg { width: 34px; height: 34px; color: #fff; margin-bottom: 22px; stroke-width: 1.6; }
+.plat h3 { font-size: 26px; letter-spacing: -.025em; }
+.plat p { color: var(--dim); font-size: 16.5px; margin: 10px 0 22px; flex: 1; }
+.plat-b { display: flex; flex-wrap: wrap; gap: 10px; }
+.plat-b .btn { font-size: 15px; padding: 10px 18px; }
+.plat-b .btn svg { width: 17px; height: 17px; }
+.plat-s { color: var(--faint); font-size: 13px; margin-top: 14px; }
+.checks.two { grid-template-columns: 1fr 1fr; max-width: 900px; margin: 44px auto 0; text-align: left; column-gap: 40px; }
+.note { margin: 26px 0 0; padding: 16px 18px; border-radius: 16px; background: rgba(255,255,255,.04); border: 1px solid var(--line); color: var(--dim); font-size: 15.5px; line-height: 1.45; }
+.note b { color: var(--text); }
+details p b { color: var(--text); }
+@media (max-width: 900px) { .platforms, .checks.two { grid-template-columns: 1fr; } }
